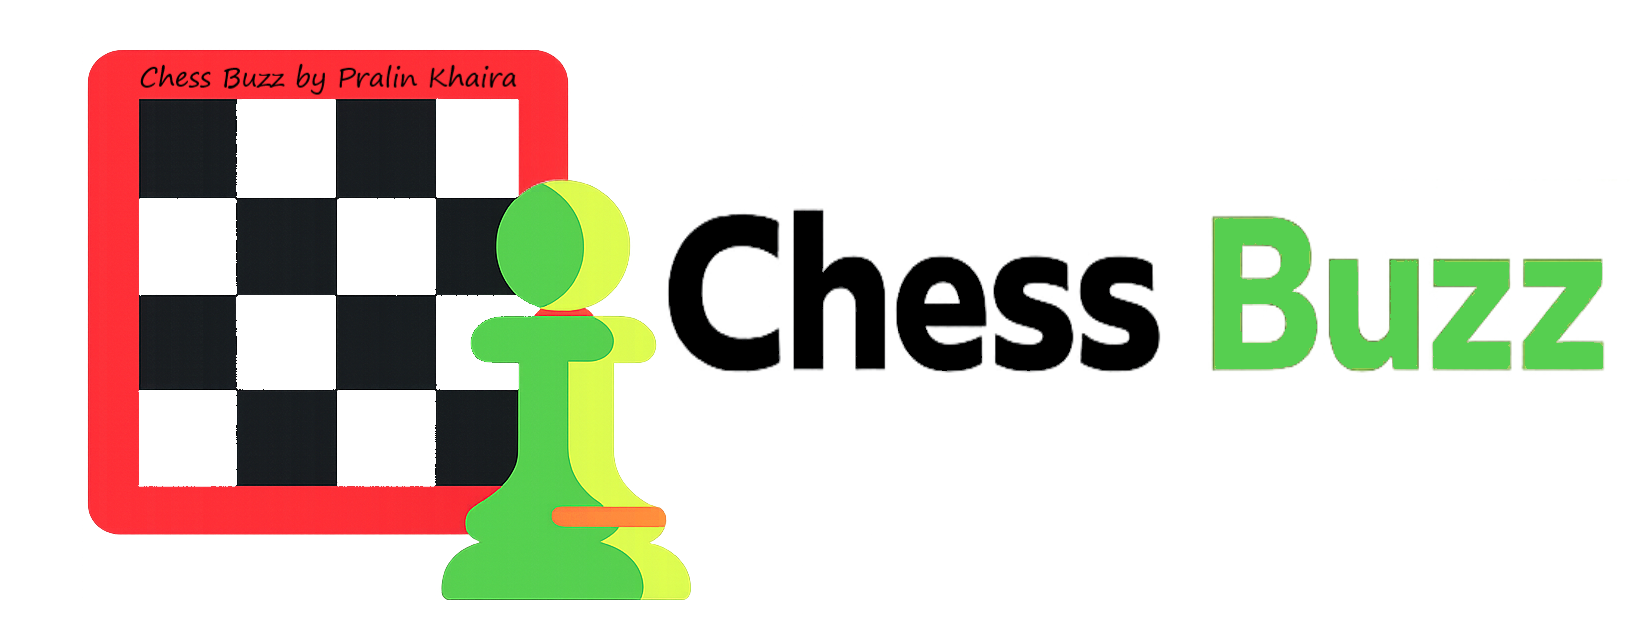
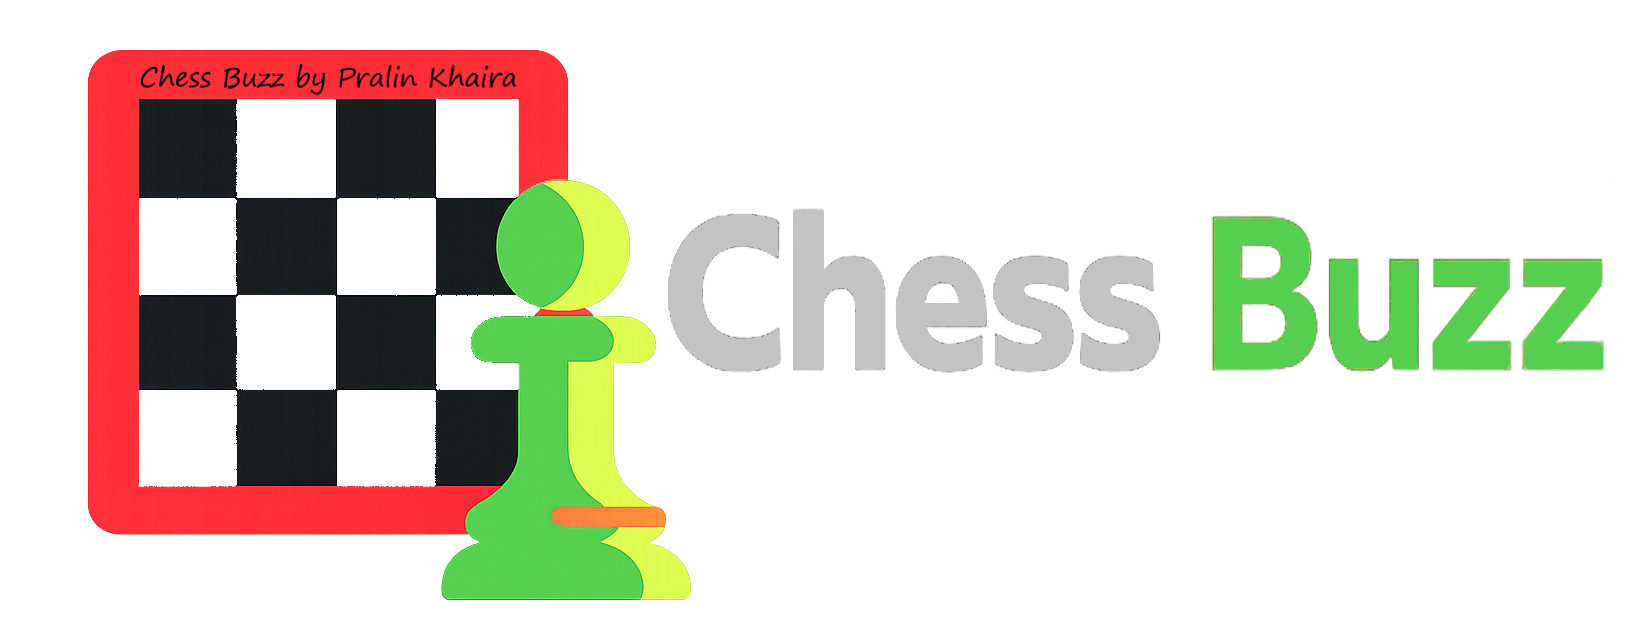
Add engine guide page to getting-started
Introduce a third flip-book page with engine selection guidance: add input#checkbox3, TOC entry for Chapter 3, and a new .paper element (id="p3") containing front/back content with engine recommendations, summaries and a quick-decision table. Add CSS rule to flip p3 when checkbox3 is checked. Also update banner image assets (chessbuzz_banner_uppercase/lowercase) with new binary versions.

Changed region(s): [[0.3988, 0.3376, 0.7362, 0.6139]]

diff --git a/src/options/pages/settings/general/general.html b/src/options/pages/settings/general/general.html
@@ -1,6 +1,7 @@
 <div class="book-scene">
   <input type="checkbox" id="checkbox1" class="page-checkbox" />
   <input type="checkbox" id="checkbox2" class="page-checkbox" />
+  <input type="checkbox" id="checkbox3" class="page-checkbox" />
 
   <div class="book-wrapper">
     <div class="book-cover">
@@ -13,7 +14,94 @@
             <ul class="toc-list">
               <li><span class="toc-chapter">Chapter 1: Engine</span> <span class="toc-page-num">1</span></li>
               <li><span class="toc-chapter">Chapter 2: Autoplay & UX</span> <span class="toc-page-num">3</span></li>
+              <li><span class="toc-chapter">Chapter 3: Engine Selection Guide</span> <span class="toc-page-num">5</span>
+              </li>
             </ul>
+          </div>
+        </div>
+        <!-- Paper 3 (Bottom) -->
+        <div class="paper" id="p3">
+          <div class="front">
+            <div class="page-content">
+              <h2 class="chapter-title">Engine Guide</h2>
+              <h3 class="chapter-subtitle">Top Engines</h3>
+
+              <div style="font-size: 0.95em; line-height: 1.4; margin-top: 15px;">
+                <h5 class="subsectionTitle" style="margin-bottom: 5px; color: #5c1b1b;"><i class="material-icons"
+                    style="font-size: 16px; vertical-align: middle;">looks_one</i> Stockfish 17 NNUE (79MB)</h5>
+                <p style="margin: 0 0 12px 0; text-indent: 0;"><strong>Best for:</strong> Standard chess, maximum
+                  strength. Recommended default for most users. (Needs 4GB+ RAM)</p>
+
+                <h5 class="subsectionTitle" style="margin-bottom: 5px; color: #5c1b1b;"><i class="material-icons"
+                    style="font-size: 16px; vertical-align: middle;">looks_two</i> Stockfish 16 NNUE (40MB)</h5>
+                <p style="margin: 0 0 12px 0; text-indent: 0;"><strong>Best for:</strong> Slightly older systems, low on
+                  storage.</p>
+
+                <h5 class="subsectionTitle" style="margin-bottom: 5px; color: #5c1b1b;"><i class="material-icons"
+                    style="font-size: 16px; vertical-align: middle;">looks_3</i> Stockfish 16 NNUE (7MB)</h5>
+                <p style="margin: 0 0 12px 0; text-indent: 0;"><strong>Best for:</strong> Very low-end PCs, minimal
+                  storage.</p>
+
+                <h5 class="subsectionTitle" style="margin-bottom: 5px; color: #5c1b1b;"><i class="material-icons"
+                    style="font-size: 16px; vertical-align: middle;">looks_4</i> Leela Chess Zero</h5>
+                <p style="margin: 0 0 12px 0; text-indent: 0;"><strong>Best for:</strong> Human-like analysis. <em>GPU
+                    recommended.</em></p>
+
+                <h5 class="subsectionTitle" style="margin-bottom: 5px; color: #5c1b1b;"><i class="material-icons"
+                    style="font-size: 16px; vertical-align: middle;">looks_5</i> Fairy Stockfish 14</h5>
+                <p style="margin: 0 0 12px 0; text-indent: 0;"><strong>Best for:</strong> Chess variants. Don't use for
+                  standard.</p>
+              </div>
+
+              <div class="page-number">5</div>
+              <label class="turn-btn next-btn" for="checkbox3">Turn Page ➔</label>
+            </div>
+          </div>
+          <div class="back">
+            <div class="page-content">
+              <h2 class="chapter-title">Engine Guide</h2>
+              <h3 class="chapter-subtitle">Other & Summary</h3>
+
+              <div style="font-size: 0.95em; line-height: 1.4; margin-top: 15px;">
+                <h5 class="subsectionTitle" style="margin-bottom: 5px; color: #5c1b1b;"><i class="material-icons"
+                    style="font-size: 16px; vertical-align: middle;">looks_6</i> Stockfish 11 HCE / Stockfish 6</h5>
+                <p style="margin: 0 0 12px 0; text-indent: 0;"><strong>Best for:</strong> Comparison only, weaker
+                  opponent.</p>
+
+                <h5 class="subsectionTitle" style="margin-bottom: 5px; color: #5c1b1b;"><i class="material-icons"
+                    style="font-size: 16px; vertical-align: middle;">looks_7</i> Remote Engine</h5>
+                <p style="margin: 0 0 12px 0; text-indent: 0;"><strong>Best for:</strong> Server-based analysis. No
+                  local CPU usage.</p>
+              </div>
+
+              <h5 class="subsectionTitle"
+                style="text-align: center; border-bottom: 1px dotted #8a6c53; padding-bottom: 5px;">Quick Decision</h5>
+              <table style="width: 100%; font-size: 0.85em; margin-top: 10px; border-collapse: collapse;">
+                <tr style="border-bottom: 1px solid #ccc; text-align: left;">
+                  <th style="padding: 4px 0;">Situation</th>
+                  <th style="padding: 4px 0;">Engine</th>
+                </tr>
+                <tr style="border-bottom: 1px solid #e0d5c1;">
+                  <td style="padding: 4px 0;">Best overall</td>
+                  <td style="padding: 4px 0;"><b>Stockfish 17 (79MB)</b></td>
+                </tr>
+                <tr style="border-bottom: 1px solid #e0d5c1;">
+                  <td style="padding: 4px 0;">Low-end PC</td>
+                  <td style="padding: 4px 0;"><b>Stockfish 16 (7MB)</b></td>
+                </tr>
+                <tr style="border-bottom: 1px solid #e0d5c1;">
+                  <td style="padding: 4px 0;">GPU available</td>
+                  <td style="padding: 4px 0;"><b>Leela Chess Zero</b></td>
+                </tr>
+                <tr>
+                  <td style="padding: 4px 0;">Variants</td>
+                  <td style="padding: 4px 0;"><b>Fairy Stockfish</b></td>
+                </tr>
+              </table>
+
+              <div class="page-number">6</div>
+              <label class="turn-btn prev-btn" for="checkbox3">⟵ Turn Back</label>
+            </div>
           </div>
         </div>
 

diff --git a/src/options/pages/getting-started/getting-started.css b/src/options/pages/getting-started/getting-started.css
@@ -80,6 +80,11 @@
     z-index: 2;
 }
 
+#checkbox3:checked~.book-wrapper .book #p3 {
+    transform: rotateY(-180deg);
+    z-index: 3;
+}
+
 
 .front,
 .back {
